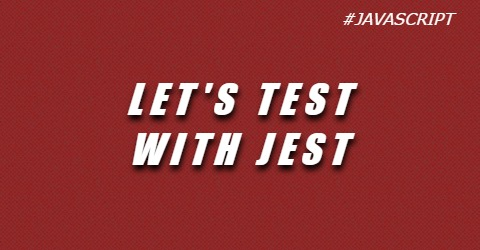
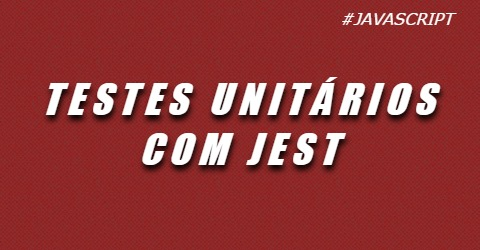
changed last post name

Changed region(s): [[0.0938, 0.308, 0.9375, 0.7], [0.7188, 0.056, 0.8438, 0.112]]

diff --git a/_posts/2017-05-21-testes-unitarios-com-jest.md b/_posts/2017-05-21-testes-unitarios-com-jest.md
@@ -1,6 +1,6 @@
 ---
 layout: post
-title: "Let's test with jest"
+title: "Testes unitários com JEST !"
 image: "/assets/jest/cover.jpg"
 date:   2017-05-21 08:00:00 -0200
 color_template: "javascript"
